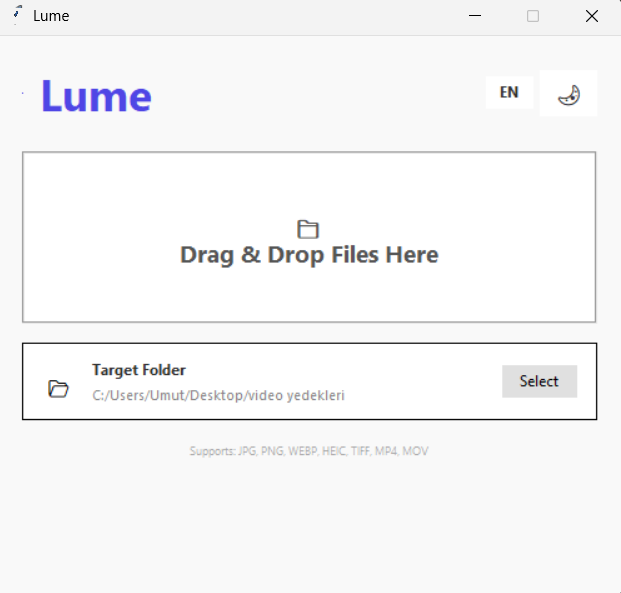
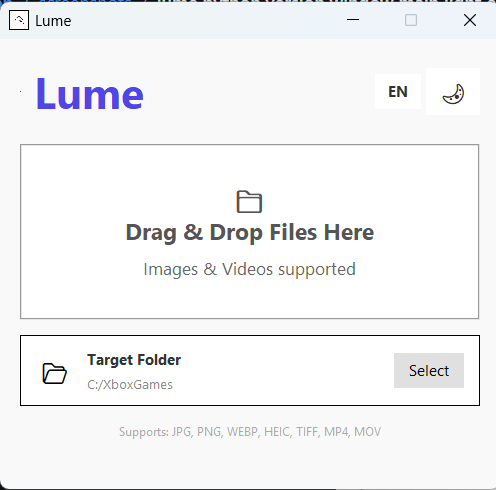
README’ye Python görsellerini ekle

diff --git a/README.md b/README.md
@@ -153,7 +153,11 @@ Lume runs locally without requiring an internet connection, does not send teleme
 ### Python GUI
 
 - Dosya / File: `lume_python_gui.exe`
-- VirusTotal görseli / Screenshot: Görsel eklenecek / Screenshot will be added
+- VirusTotal görseli / Screenshot: [Python GUI VirusTotal scan](screenshots/virustotal/python-gui-virustotal.png)
+
+<p align="center">
+  <img src="screenshots/virustotal/python-gui-virustotal.png" alt="Python GUI VirusTotal scan" width="700"/>
+</p>
 
 ### Go GUI
 
@@ -189,7 +193,9 @@ Adım 2: EXE'nin Olduğu Klasöre Gidin
 ```powershell
 cd "C:\DosyaYolu\lume-app\cli version lume"
 ```
-*(Lütfen `"C:\DosyaYolu..."` kısmını indirdiğiniz proje klasörünün kendi bilgisayarınızdaki gerçek yolu ile değiştirin.)*
+
+Not:
+`"C:\DosyaYolu..."` kısmını indirdiğiniz proje klasörünün kendi bilgisayarınızdaki gerçek yolu ile değiştirin.
 
 Adım 3: Programı Çalıştırın
 
@@ -223,7 +229,9 @@ Step 2: Navigate to EXE Folder
 ```powershell
 cd "C:\PathToProject\lume-app\cli version lume"
 ```
-*(Please replace `"C:\PathToProject..."` with the actual path of the project folder on your computer.)*
+
+Note:
+Replace `"C:\PathToProject..."` with the actual path of the project folder on your computer.
 
 Step 3: Run the Program
 
